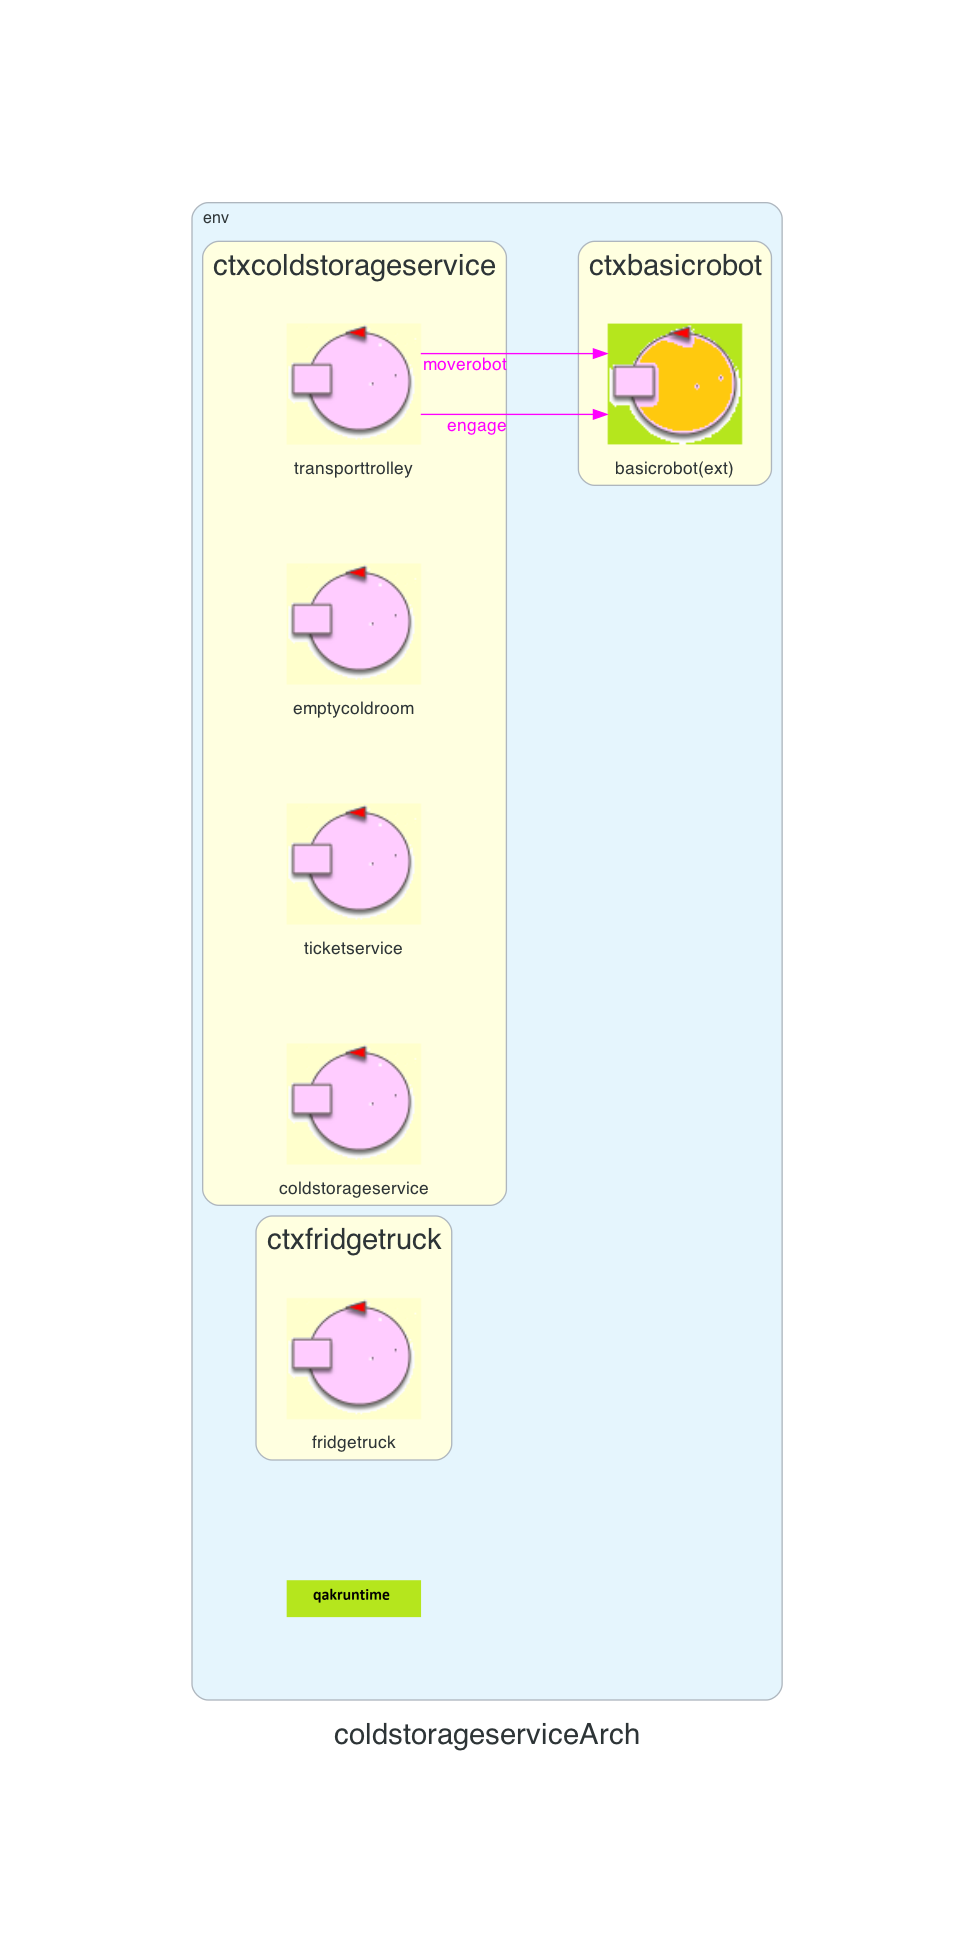
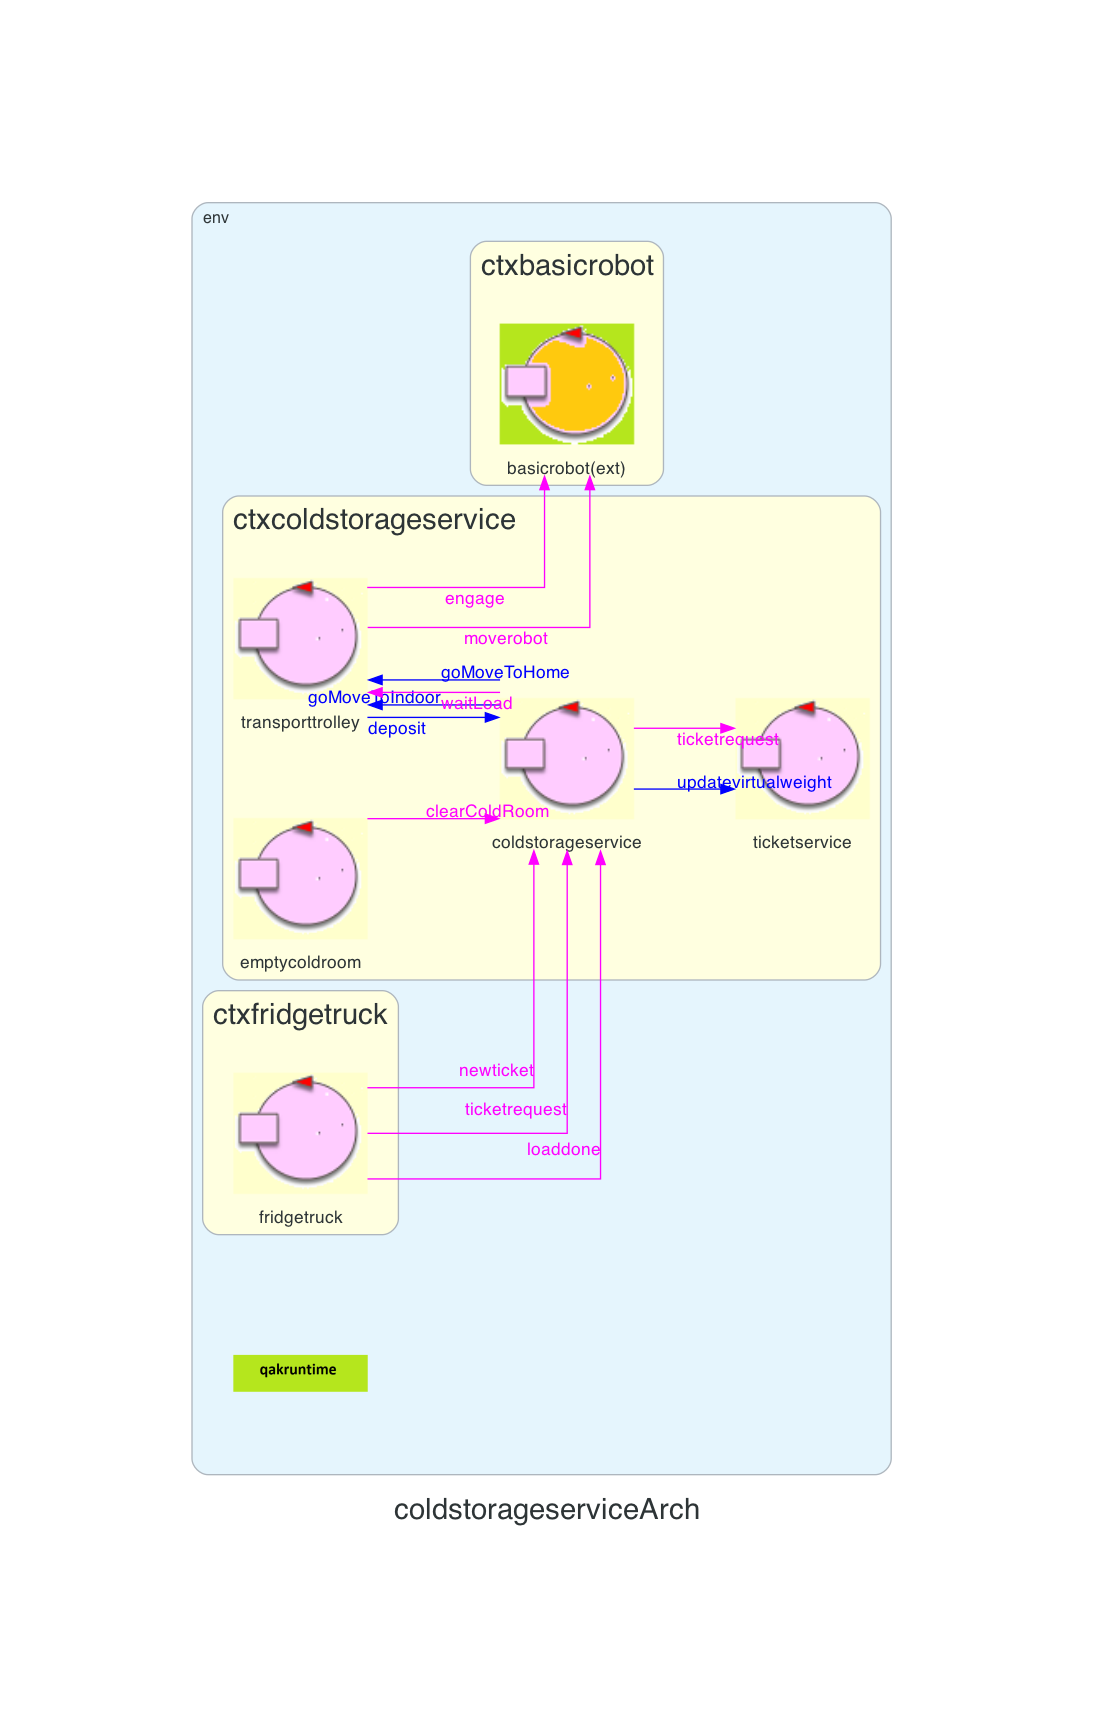
update immagini architettura logica

Changed region(s): [[0.154, 0.0925, 0.8316, 0.8946]]

diff --git a/it.unibo.coldstorageservice.Sprint1/src/it/unibo/coldstorageservice/Coldstorageservice.kt b/it.unibo.coldstorageservice.Sprint1/src/it/unibo/coldstorageservice/Coldstorageservice.kt
@@ -40,8 +40,8 @@ class Coldstorageservice ( name: String, scope: CoroutineScope  ) : ActorBasicFs
 					//After Lenzi Aug2002
 					sysaction { //it:State
 					}	 	 
-					 transition(edgeName="t017",targetState="elabTicketRequest",cond=whenRequest("ticketrequest"))
-					transition(edgeName="t018",targetState="elabClearColdRoom",cond=whenRequest("clearColdRoom"))
+					 transition(edgeName="t016",targetState="elabTicketRequest",cond=whenRequest("ticketrequest"))
+					transition(edgeName="t017",targetState="elabClearColdRoom",cond=whenRequest("clearColdRoom"))
 				}	 
 				state("elabTicketRequest") { //this:State
 					action { //it:State
@@ -59,8 +59,8 @@ class Coldstorageservice ( name: String, scope: CoroutineScope  ) : ActorBasicFs
 					//After Lenzi Aug2002
 					sysaction { //it:State
 					}	 	 
-					 transition(edgeName="t119",targetState="elabTicketAccepted",cond=whenReply("ticketaccepted"))
-					transition(edgeName="t120",targetState="elabTicketRejected",cond=whenReply("ticketrejected"))
+					 transition(edgeName="t118",targetState="elabTicketAccepted",cond=whenReply("ticketaccepted"))
+					transition(edgeName="t119",targetState="elabTicketRejected",cond=whenReply("ticketrejected"))
 				}	 
 				state("elabTicketAccepted") { //this:State
 					action { //it:State
@@ -94,7 +94,7 @@ class Coldstorageservice ( name: String, scope: CoroutineScope  ) : ActorBasicFs
 					//After Lenzi Aug2002
 					sysaction { //it:State
 					}	 	 
-					 transition(edgeName="t221",targetState="elabLoadDone",cond=whenRequest("loaddone"))
+					 transition(edgeName="t220",targetState="elabLoadDone",cond=whenRequest("loaddone"))
 				}	 
 				state("elabLoadDone") { //this:State
 					action { //it:State
@@ -115,7 +115,7 @@ class Coldstorageservice ( name: String, scope: CoroutineScope  ) : ActorBasicFs
 					//After Lenzi Aug2002
 					sysaction { //it:State
 					}	 	 
-					 transition(edgeName="t322",targetState="elabChargeTaken",cond=whenReply("waitLoadDone"))
+					 transition(edgeName="t321",targetState="elabChargeTaken",cond=whenReply("waitLoadDone"))
 				}	 
 				state("elabChargeTaken") { //this:State
 					action { //it:State
@@ -138,7 +138,7 @@ class Coldstorageservice ( name: String, scope: CoroutineScope  ) : ActorBasicFs
 					//After Lenzi Aug2002
 					sysaction { //it:State
 					}	 	 
-					 transition(edgeName="t423",targetState="elabDeposit",cond=whenDispatch("deposit"))
+					 transition(edgeName="t422",targetState="elabDeposit",cond=whenDispatch("deposit"))
 				}	 
 				state("elabDeposit") { //this:State
 					action { //it:State
@@ -161,8 +161,8 @@ class Coldstorageservice ( name: String, scope: CoroutineScope  ) : ActorBasicFs
 				 	 		stateTimer = TimerActor("timer_elabDeposit", 
 				 	 					  scope, context!!, "local_tout_coldstorageservice_elabDeposit", 2500.toLong() )
 					}	 	 
-					 transition(edgeName="t524",targetState="moveRobotHome",cond=whenTimeout("local_tout_coldstorageservice_elabDeposit"))   
-					transition(edgeName="t525",targetState="elabTicketRequest",cond=whenRequest("ticketrequest"))
+					 transition(edgeName="t523",targetState="moveRobotHome",cond=whenTimeout("local_tout_coldstorageservice_elabDeposit"))   
+					transition(edgeName="t524",targetState="elabTicketRequest",cond=whenRequest("ticketrequest"))
 				}	 
 				state("moveRobotHome") { //this:State
 					action { //it:State

diff --git a/it.unibo.coldstorageservice.Sprint1/src/it/unibo/fridgetruck/Fridgetruck.kt b/it.unibo.coldstorageservice.Sprint1/src/it/unibo/fridgetruck/Fridgetruck.kt
@@ -22,6 +22,7 @@ class Fridgetruck ( name: String, scope: CoroutineScope  ) : ActorBasicFsm( name
 				state("s0") { //this:State
 					action { //it:State
 						CommUtils.outred("fridgetruck starts")
+						request("newticket", "newticket(3)" ,"coldstorageservice" )  
 						//genTimer( actor, state )
 					}
 					//After Lenzi Aug2002
@@ -38,6 +39,7 @@ class Fridgetruck ( name: String, scope: CoroutineScope  ) : ActorBasicFsm( name
 								 
 												var CurrentTicketId = payloadArg(0)
 												println(CurrentTicketId)
+								request("ticketrequest", "ticketrequest($CurrentTicketId,3)" ,"coldstorageservice" )  
 						}
 						//genTimer( actor, state )
 					}
@@ -48,6 +50,7 @@ class Fridgetruck ( name: String, scope: CoroutineScope  ) : ActorBasicFsm( name
 				}	 
 				state("elabLoadDone") { //this:State
 					action { //it:State
+						request("loaddone", "loaddone(3)" ,"coldstorageservice" )  
 						//genTimer( actor, state )
 					}
 					//After Lenzi Aug2002

diff --git a/it.unibo.coldstorageservice.Sprint1/src/it/unibo/ticketservice/Ticketservice.kt b/it.unibo.coldstorageservice.Sprint1/src/it/unibo/ticketservice/Ticketservice.kt
@@ -34,9 +34,9 @@ class Ticketservice ( name: String, scope: CoroutineScope  ) : ActorBasicFsm( na
 					//After Lenzi Aug2002
 					sysaction { //it:State
 					}	 	 
-					 transition(edgeName="t014",targetState="elabNewTicket",cond=whenRequest("newticket"))
-					transition(edgeName="t015",targetState="elabTicketRequest",cond=whenRequest("ticketrequest"))
-					transition(edgeName="t016",targetState="elabUpdateVirtualWeight",cond=whenDispatch("updatevirtualweight"))
+					 transition(edgeName="t013",targetState="elabNewTicket",cond=whenRequest("newticket"))
+					transition(edgeName="t014",targetState="elabTicketRequest",cond=whenRequest("ticketrequest"))
+					transition(edgeName="t015",targetState="elabUpdateVirtualWeight",cond=whenDispatch("updatevirtualweight"))
 				}	 
 				state("elabNewTicket") { //this:State
 					action { //it:State

diff --git a/it.unibo.coldstorageservice.Sprint2/coldstorageservice/src/it/unibo/serviceaccessgui/Serviceaccessgui.kt b/it.unibo.coldstorageservice.Sprint2/coldstorageservice/src/it/unibo/serviceaccessgui/Serviceaccessgui.kt
@@ -22,6 +22,7 @@ class Serviceaccessgui ( name: String, scope: CoroutineScope  ) : ActorBasicFsm(
 				state("s0") { //this:State
 					action { //it:State
 						CommUtils.outred("fridgetruck starts")
+						CoapObserverSupport(myself, "localhost","8022","ctxcoldstorageservice","statusservice")
 						request("newticket", "newticket(3)" ,"coldstorageservice" )  
 						//genTimer( actor, state )
 					}

diff --git a/it.unibo.coldstorageservice.Sprint1/src/it/unibo/ctxfridgetruck/MainCtxfridgetruck.kt b/it.unibo.coldstorageservice.Sprint1/src/it/unibo/ctxfridgetruck/MainCtxfridgetruck.kt
@@ -5,7 +5,7 @@ import it.unibo.kactor.sysUtil
 import kotlinx.coroutines.runBlocking
 
 fun main() = runBlocking {
-	//System.setProperty(org.slf4j.impl.SimpleLogger.DEFAULT_LOG_LEVEL_KEY, "ERROR");
+	System.setProperty(org.slf4j.impl.SimpleLogger.DEFAULT_LOG_LEVEL_KEY, "ERROR");
 	QakContext.createContexts(
 	        "localhost", this, "coldstorageservice.pl", "sysRules.pl","ctxfridgetruck"
 	)

diff --git a/it.unibo.coldstorageservice.Sprint2/coldstorageservice/src/it/unibo/servicestatusgui/Servicestatusgui.kt b/it.unibo.coldstorageservice.Sprint2/coldstorageservice/src/it/unibo/servicestatusgui/Servicestatusgui.kt
@@ -21,6 +21,7 @@ class Servicestatusgui ( name: String, scope: CoroutineScope  ) : ActorBasicFsm(
 		return { //this:ActionBasciFsm
 				state("s0") { //this:State
 					action { //it:State
+						CoapObserverSupport(myself, "localhost","8022","ctxcoldstorageservice","statusservice")
 						//genTimer( actor, state )
 					}
 					//After Lenzi Aug2002

diff --git a/it.unibo.coldstorageservice.Sprint1/Arch_coldstorageservice.py b/it.unibo.coldstorageservice.Sprint1/Arch_coldstorageservice.py
@@ -21,21 +21,23 @@ with Diagram('coldstorageserviceArch', show=False, outformat='png', graph_attr=g
      sys = Custom('','./qakicons/system.png')
      with Cluster('ctxbasicrobot', graph_attr=nodeattr):
           basicrobot=Custom('basicrobot(ext)','./qakicons/externalQActor.png')
-          robotposendosimbiotico=Custom('robotposendosimbiotico(ext)','./qakicons/externalQActor.png')
      with Cluster('ctxcoldstorageservice', graph_attr=nodeattr):
           transporttrolley=Custom('transporttrolley','./qakicons/symActorSmall.png')
-          statusservice=Custom('statusservice','./qakicons/symActorSmall.png')
           emptycoldroom=Custom('emptycoldroom','./qakicons/symActorSmall.png')
           ticketservice=Custom('ticketservice','./qakicons/symActorSmall.png')
           coldstorageservice=Custom('coldstorageservice','./qakicons/symActorSmall.png')
+     with Cluster('ctxfridgetruck', graph_attr=nodeattr):
+          fridgetruck=Custom('fridgetruck','./qakicons/symActorSmall.png')
      transporttrolley >> Edge(color='magenta', style='solid', xlabel='engage', fontcolor='magenta') >> basicrobot
      transporttrolley >> Edge(color='magenta', style='solid', xlabel='moverobot', fontcolor='magenta') >> basicrobot
      transporttrolley >> Edge(color='blue', style='solid', xlabel='deposit', fontcolor='blue') >> coldstorageservice
-     coldstorageservice >> Edge(color='blue', style='solid', xlabel='coapUpdate', fontcolor='blue') >> statusservice
      emptycoldroom >> Edge(color='magenta', style='solid', xlabel='clearColdRoom', fontcolor='magenta') >> coldstorageservice
      coldstorageservice >> Edge(color='magenta', style='solid', xlabel='ticketrequest', fontcolor='magenta') >> ticketservice
      coldstorageservice >> Edge(color='blue', style='solid', xlabel='goMoveToIndoor', fontcolor='blue') >> transporttrolley
      coldstorageservice >> Edge(color='magenta', style='solid', xlabel='waitLoad', fontcolor='magenta') >> transporttrolley
      coldstorageservice >> Edge(color='blue', style='solid', xlabel='goMoveToHome', fontcolor='blue') >> transporttrolley
      coldstorageservice >> Edge(color='blue', style='solid', xlabel='updatevirtualweight', fontcolor='blue') >> ticketservice
+     fridgetruck >> Edge(color='magenta', style='solid', xlabel='newticket', fontcolor='magenta') >> coldstorageservice
+     fridgetruck >> Edge(color='magenta', style='solid', xlabel='ticketrequest', fontcolor='magenta') >> coldstorageservice
+     fridgetruck >> Edge(color='magenta', style='solid', xlabel='loaddone', fontcolor='magenta') >> coldstorageservice
 diag

diff --git a/it.unibo.coldstorageservice.Sprint2/coldstorageservice/Arch_coldstorageservice.py b/it.unibo.coldstorageservice.Sprint2/coldstorageservice/Arch_coldstorageservice.py
@@ -43,7 +43,9 @@ with Diagram('coldstorageserviceArch', show=False, outformat='png', graph_attr=g
      coldstorageservice >> Edge(color='magenta', style='solid', xlabel='waitLoad', fontcolor='magenta') >> transporttrolley
      coldstorageservice >> Edge(color='blue', style='solid', xlabel='goMoveToHome', fontcolor='blue') >> transporttrolley
      coldstorageservice >> Edge(color='blue', style='solid', xlabel='updatevirtualweight', fontcolor='blue') >> ticketservice
+     statusservice >> Edge(color='blue', style='solid', xlabel='coapUpdate', fontcolor='blue') >> serviceaccessgui
      serviceaccessgui >> Edge(color='magenta', style='solid', xlabel='newticket', fontcolor='magenta') >> coldstorageservice
      serviceaccessgui >> Edge(color='magenta', style='solid', xlabel='ticketrequest', fontcolor='magenta') >> coldstorageservice
      serviceaccessgui >> Edge(color='magenta', style='solid', xlabel='loaddone', fontcolor='magenta') >> coldstorageservice
+     statusservice >> Edge(color='blue', style='solid', xlabel='coapUpdate', fontcolor='blue') >> servicestatusgui
 diag
